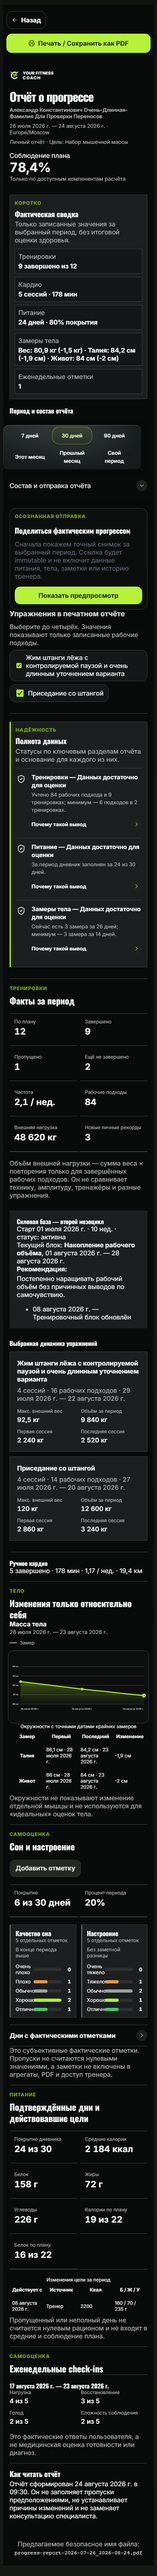
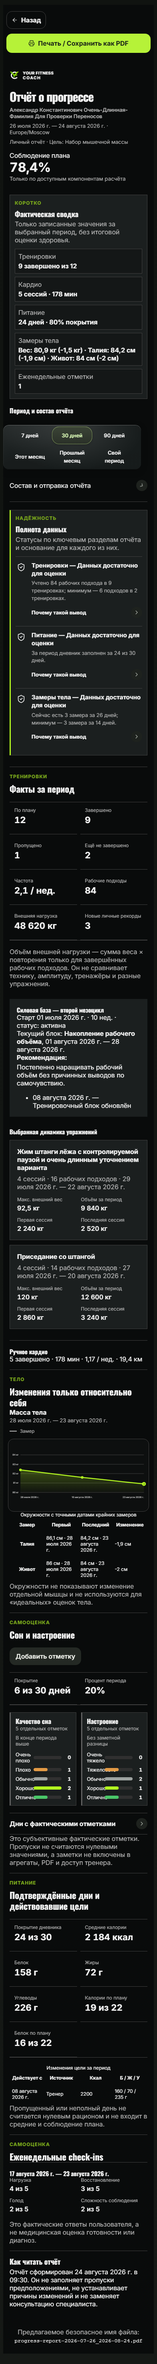
test(report): capture equivalent collapsed Dark and Light states (#1039)

diff --git a/frontend/tests/e2e/progress-report.spec.ts b/frontend/tests/e2e/progress-report.spec.ts
@@ -174,6 +174,10 @@ test('report uses the available mobile canvas width without horizontal overflow'
       expect(geometry.documentWidth).toBeGreaterThanOrEqual(width - 34);
       expect(geometry.contentWidth).toBeGreaterThanOrEqual(width - 50);
       if (width === 393 && process.env.YFC_CAPTURE_1039 === '1') {
+        // Screenshots show identical, collapsed report options in both themes.
+        await page.locator('.progress-report-options').evaluate((node) => {
+          (node as HTMLDetailsElement).open = false;
+        });
         await mkdir(evidenceDir, { recursive: true });
         await page.screenshot({
           path: resolve(evidenceDir, `after-393-${theme}.png`),
